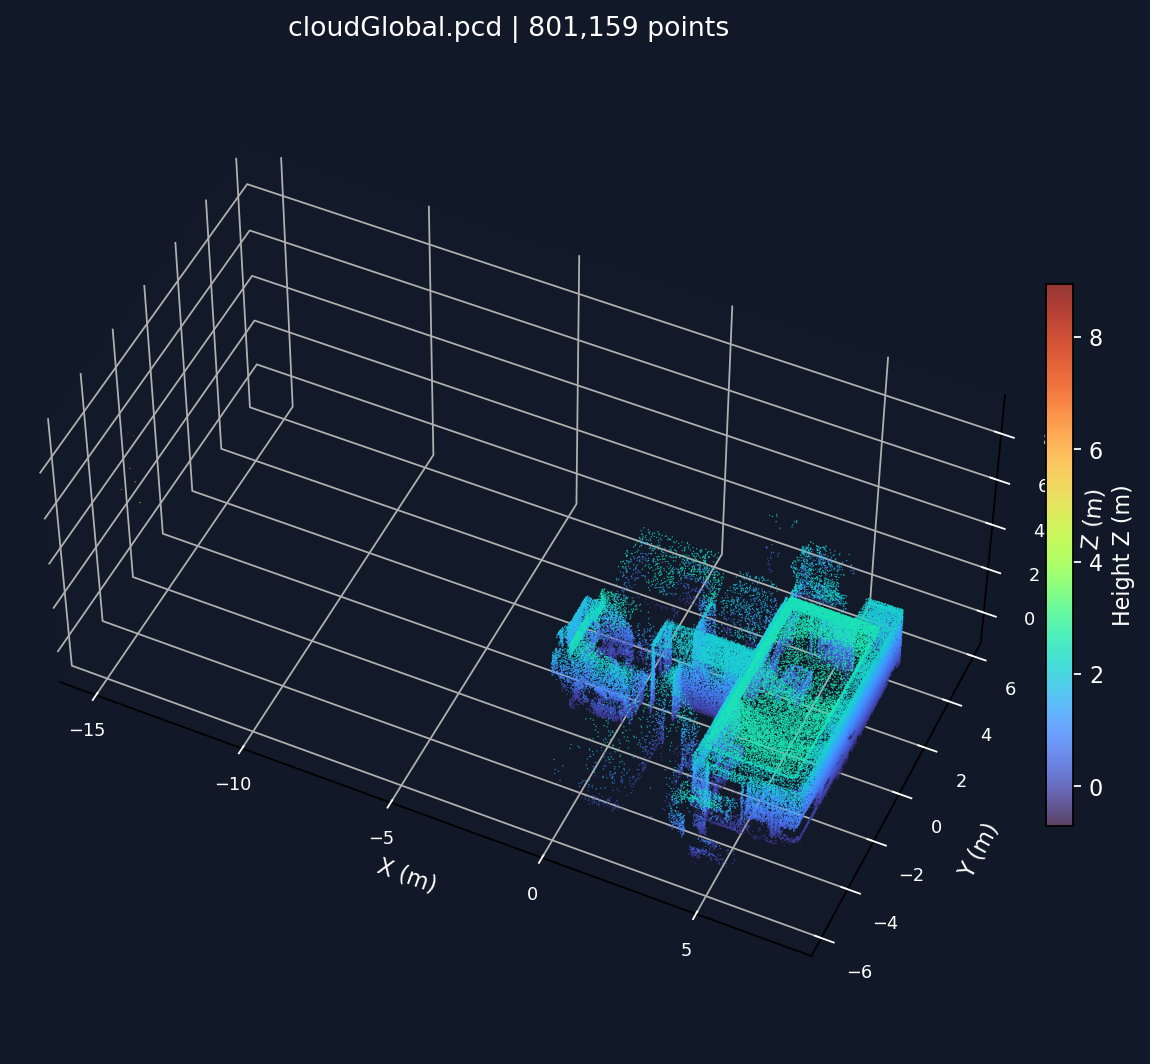
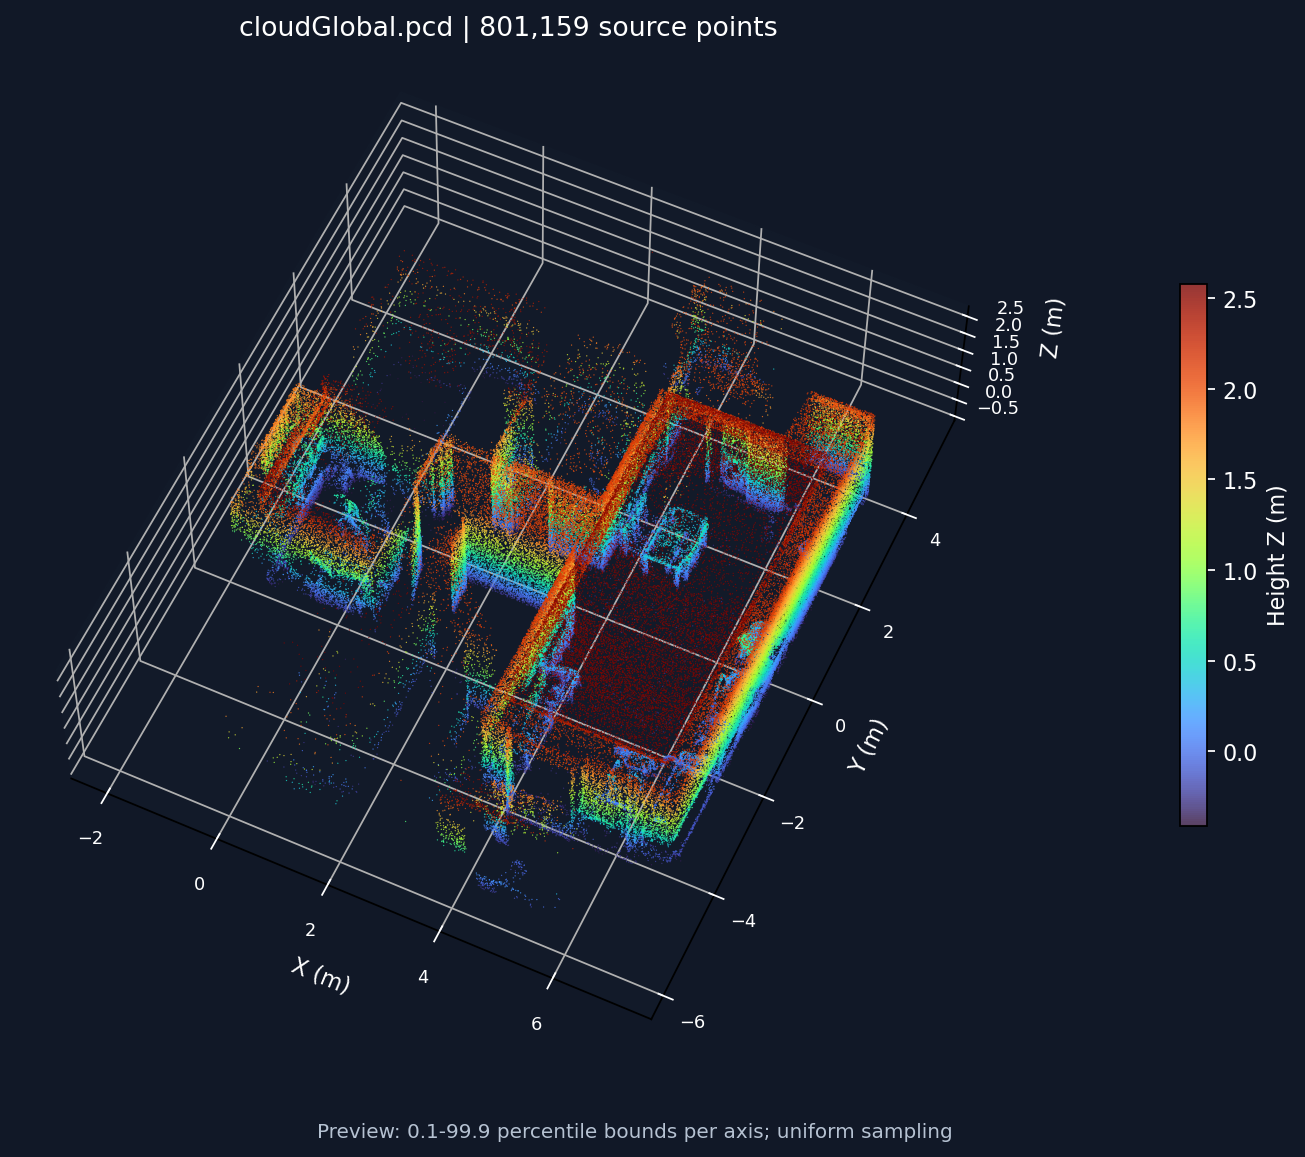
docs: focus point cloud preview on the mapped area
Exclude sparse coordinate outliers from the rendered preview and document the display bounds; preserve the source cloud.

diff --git a/tools/render_maps.py b/tools/render_maps.py
@@ -48,25 +48,28 @@ def main():
     points = read_pcd(args.map_dir / "cloudGlobal.pcd")
     # Fixed sampling only affects the preview; the source cloud is not modified.
     preview = points[::max(1, (len(points) + 159999) // 160000)]
-    limits = np.array([points.min(axis=0), points.max(axis=0)])
+    limits = np.quantile(points, [0.001, 0.999], axis=0)
+    preview = preview[((preview >= limits[0]) & (preview <= limits[1])).all(axis=1)]
     fig = plt.figure(figsize=(12, 8), facecolor="#111827")
     ax = fig.add_subplot(111, projection="3d", facecolor="#111827")
     scatter = ax.scatter(*preview.T, c=preview[:, 2], cmap="turbo",
                          s=0.35, alpha=0.8, linewidths=0, rasterized=True)
     ax.set_box_aspect(np.maximum(limits[1] - limits[0], 1))
-    ax.view_init(elev=48, azim=-65)
+    ax.view_init(elev=58, azim=-65)
     for axis, label in zip([ax.xaxis, ax.yaxis, ax.zaxis], ["X (m)", "Y (m)", "Z (m)"]):
         axis.set_pane_color((0.07, 0.1, 0.16, 1))
         axis.label.set_color("white")
         axis.set_label_text(label)
     ax.tick_params(colors="white", labelsize=8)
-    ax.set_title(f"cloudGlobal.pcd | {len(points):,} points", color="white", pad=12)
-    bar = fig.colorbar(scatter, ax=ax, shrink=0.55, pad=0.03)
+    ax.set_title(f"cloudGlobal.pcd | {len(points):,} source points", color="white", pad=12)
+    fig.text(0.5, 0.04, "Preview: 0.1-99.9 percentile bounds per axis; uniform sampling",
+             color="#b6c2d2", ha="center", fontsize=9)
+    bar = fig.colorbar(scatter, ax=ax, shrink=0.55, pad=0.12)
     bar.set_label("Height Z (m)", color="white")
     bar.ax.tick_params(colors="white")
     fig.savefig(args.output / "map-3d.png", dpi=160, facecolor=fig.get_facecolor(), bbox_inches="tight")
     plt.close(fig)
-    print("3D bounds (m):", limits.tolist())
+    print("3D preview bounds (m):", limits.tolist())
 
 
 if __name__ == "__main__":

diff --git a/README.md b/README.md
@@ -30,7 +30,7 @@
 | --- | --- |
 | ![二维地图](docs/media/map-2d.png) | ![三维地图](docs/media/map-3d.png) |
 
-二维地图：223 × 274 像素，分辨率 0.05 m；三维原始点云：801,159 点，预览采用抽样显示。
+二维地图：223 × 274 像素，分辨率 0.05 m；三维原始点云：801,159 点。三维预览抽样显示各坐标轴 0.1%～99.9% 分位范围内的主体，不修改原始点云。
 
 ## 编译
 
